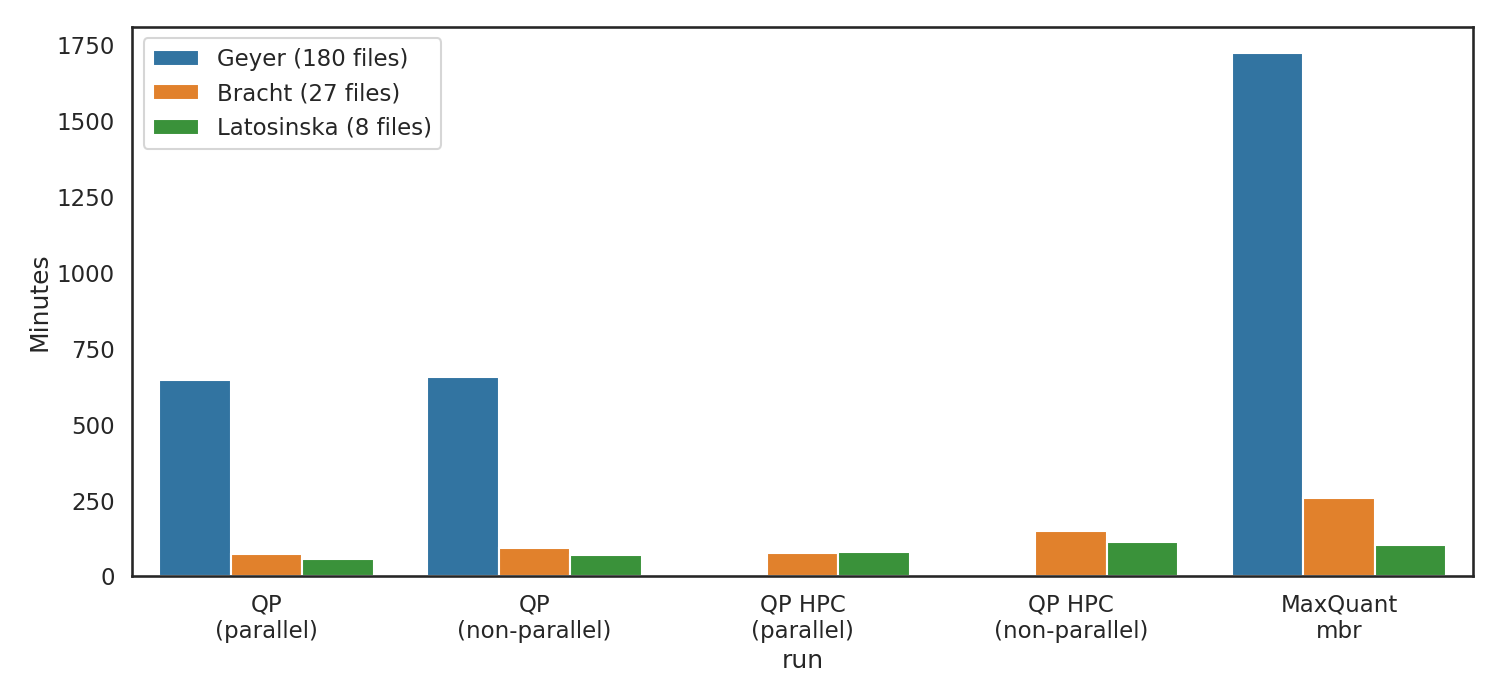
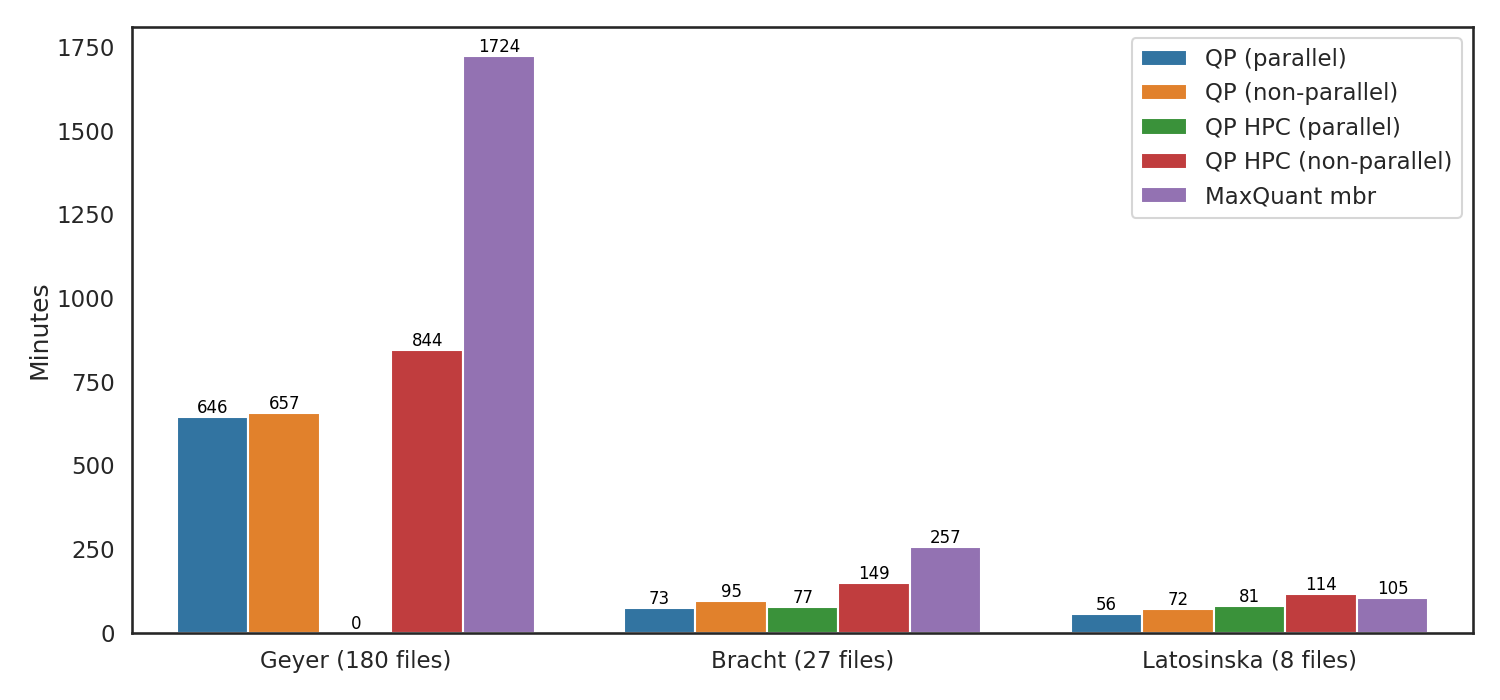
Updated so the data sets are group, not the programs

diff --git a/doc/paper/data/generate_plots.py b/doc/paper/data/generate_plots.py
@@ -8,27 +8,30 @@ sns.set_color_codes("dark")
 sns.set_style("white")
 sns.set_context("talk")
 data = {
-'QP\n(parallel)': [10*60 + 46, 60 + 13, 56],
-'QP\n(non-parallel)': [10*60 + 57, 60 + 35, 60 + 12],
-'QP HPC\n(parallel)': [0, 60 + 17, 60 + 21],
-'QP HPC\n(non-parallel)': [0, 2*60 + 29, 60 + 54],
-'MaxQuant\nmbr': [28*60 + 44, 4*60 + 17, 60 + 45]
+'QP (parallel)': [10*60 + 46, 60 + 13, 56],
+'QP (non-parallel)': [10*60 + 57, 60 + 35, 60 + 12],
+'QP HPC (parallel)': [0, 60 + 17, 60 + 21],
+'QP HPC (non-parallel)': [14*60 + 4, 2*60 + 29, 60 + 54],
+'MaxQuant mbr': [28*60 + 44, 4*60 + 17, 60 + 45]
 }
 data_cores = {
-'QP\n(parallel)': [1,2,3],
-'QP\n(non-parallel)': [1,2,3],
-'QP HPC\n(parallel)': [1,2,3],
-'QP HPC\n(non-parallel)': [1,2,3],
-'MaxQuant\nmbr': [1,2,3]
+'QP (parallel)': [29.8, 3.9, 2.4],
+'QP (non-parallel)': [16.9, 3.0, 1.8],
+'QP HPC (parallel)': [1, 23.9, 12.6],
+'QP HPC (non-parallel)': [210.9, 29.0, 18.2],
+'MaxQuant mbr': [103.7, 15.5, 6.2]
 }
 
 # Restructure
 data_sets =  ['Geyer (180 files)', 'Bracht (27 files)', 'Latosinska (8 files)']
 data_list = []
-for key in data.keys():
-    values = data[key]
-    for index,value in enumerate(values):
-        data_list.append([key, data_sets[index], value])
+data_cores_list = []
+for key_time, key_cores in zip(data.keys(), data_cores):
+    time_values = data[key_time]
+    cpu_values = data[key_cores]
+    for index, (time, cpu) in enumerate(zip(time_values, cpu_values)):
+        data_list.append([key_time, data_sets[index], time])
+        data_cores_list.append([key_cores, data_sets[index], cpu])
 
 y = 'Minutes'
 file = 'times.png'
@@ -36,12 +39,21 @@ columns = ['run', 'data_set', 'time']
 pd_data = pd.DataFrame(data_list, columns = columns)
 print(pd_data)
 plt.figure(figsize=(15,7))
-ax = sns.barplot(x='run',
+ax = sns.barplot(x='data_set',
                  y='time',
-                 hue='data_set',
+                 hue='run',
                  data=pd_data)
+
+# Remove uneccessary titles
 handles, labels = ax.get_legend_handles_labels()
 ax.legend(handles=handles[0:], labels=labels[0:])
+ax.set_xlabel('')
+
+# Set values on each bar
+for p in ax.patches:
+    ax.text(p.get_x() + p.get_width()/2., p.get_height(), '%d' % int(p.get_height()),
+            fontsize=12, color='black', ha='center', va='bottom')
+
 plt.ylabel(y)
 plt.tight_layout()
 plt.savefig(file)
